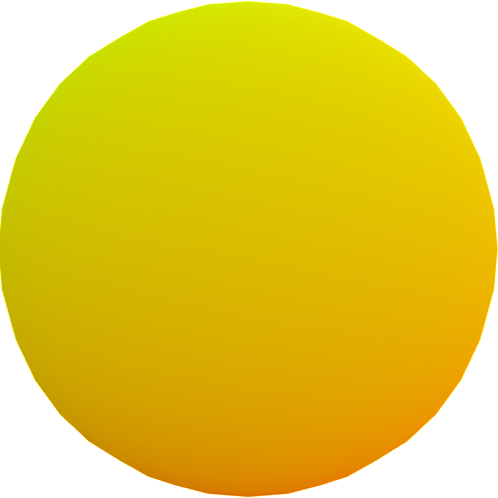
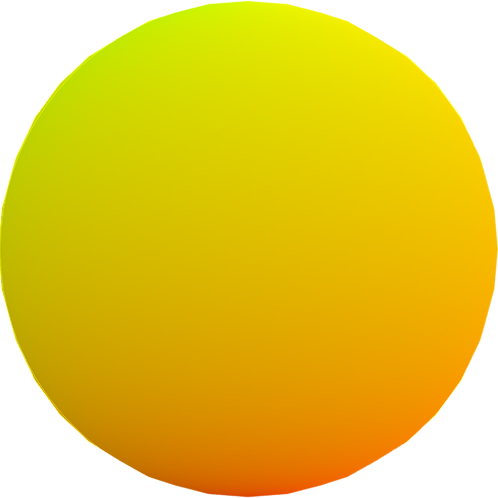
nud sphere dif/nrm improvements

Changed region(s): [[0.3313, 0.9036, 0.6627, 1.0], [0.994, 0.512, 1.0, 0.5422]]

diff --git a/Smash Forge/Rendering/RenderTools.cs b/Smash Forge/Rendering/RenderTools.cs
@@ -43,9 +43,9 @@ namespace Smash_Forge.Rendering
         public static int boneWeightGradient2;
 
         // Nud Material Sphere Textures.
-        private static int sphereDifTex;
+        public static int sphereDifTex;
         public static int sphereNrmMapTex;
-        private static int sphereSphereMap;
+        public static int sphereSphereMap;
 
         // Nud Material Sphere Vert Attribute Textures.
         private static int sphereNrmTex;
@@ -98,8 +98,12 @@ namespace Smash_Forge.Rendering
             shadowMapDummyTex = NUT.loadImage(Properties.Resources._10100000);
             dummyTextures.Add(NUD.DummyTextures.ShadowMap, shadowMapDummyTex);
 
-            // Sphere Mesh Attributes
+            // Sphere Default Textures.
+            sphereDifTex = NUT.loadImage(Properties.Resources.defaultDif);
             sphereNrmMapTex = NUT.loadImage(Properties.Resources.nrmMap);
+
+
+            // Sphere Mesh Attributes.
             sphereNrmTex = NUT.loadImage(Properties.Resources.nrm);
             sphereUvTex = NUT.loadImage(Properties.Resources.uv);
             sphereTanTex = NUT.loadImage(Properties.Resources.tan);

diff --git a/Smash Forge/GUI/MainForm.cs b/Smash Forge/GUI/MainForm.cs
@@ -110,9 +110,6 @@ namespace Smash_Forge
 
             SaveMaterialThumbnailPreviews();
 
-            // Make sure it stays invisible.
-            //glControl1.Size = new System.Drawing.Size(0, 0);
-
             openFiles();
         }
 
@@ -145,12 +142,13 @@ namespace Smash_Forge
                 Rendering.RenderTools.DrawNudMaterialSphere(material);
                 glControl1.SwapBuffers();
 
+                // Using the other framebuffer targets doesn't work for some reason.
                 Bitmap image = Rendering.FramebufferTools.ReadFrameBufferPixels(fbo, FramebufferTarget.Framebuffer, width, height, true);
 
+                // Save the image file using the name of the preset.
                 string[] parts = file.Split('\\');
                 string presetName = parts[parts.Length - 1];
                 presetName = presetName.Replace(".nmt", ".png");
-                Debug.WriteLine(presetName);
                 image.Save(MainForm.executableDir + "\\Preview Images\\" + presetName);
 
                 // Cleanup

diff --git a/Smash Forge/Properties/Resources.Designer.cs b/Smash Forge/Properties/Resources.Designer.cs
@@ -153,6 +153,16 @@ namespace Smash_Forge.Properties {
         /// <summary>
         ///   Looks up a localized resource of type System.Drawing.Bitmap.
         /// </summary>
+        internal static System.Drawing.Bitmap defaultDif {
+            get {
+                object obj = ResourceManager.GetObject("defaultDif", resourceCulture);
+                return ((System.Drawing.Bitmap)(obj));
+            }
+        }
+        
+        /// <summary>
+        ///   Looks up a localized resource of type System.Drawing.Bitmap.
+        /// </summary>
         internal static System.Drawing.Bitmap ForgeBack {
             get {
                 object obj = ResourceManager.GetObject("ForgeBack", resourceCulture);

diff --git a/Smash Forge/Filetypes/Models/NUD.cs b/Smash Forge/Filetypes/Models/NUD.cs
@@ -883,8 +883,9 @@ namespace Smash_Forge
             int textureUnitIndexOffset = 0;
             if (mat.hasDiffuse && textureUnitIndexOffset < mat.textures.Count)
             {
-                GL.Uniform1(shader.GetVertexAttributeUniformLocation("dif"), BindTexture(diffuse, diffuse.hash, textureUnitIndexOffset));
-                textureUnitIndexOffset++;
+                GL.ActiveTexture(TextureUnit.Texture3 + textureUnitIndexOffset);
+                GL.BindTexture(TextureTarget.Texture2D, RenderTools.sphereDifTex);
+                GL.Uniform1(shader.GetVertexAttributeUniformLocation("dif"), 3 + textureUnitIndexOffset); textureUnitIndexOffset++;
             }
 
             // Jigglypuff has weird eyes.
